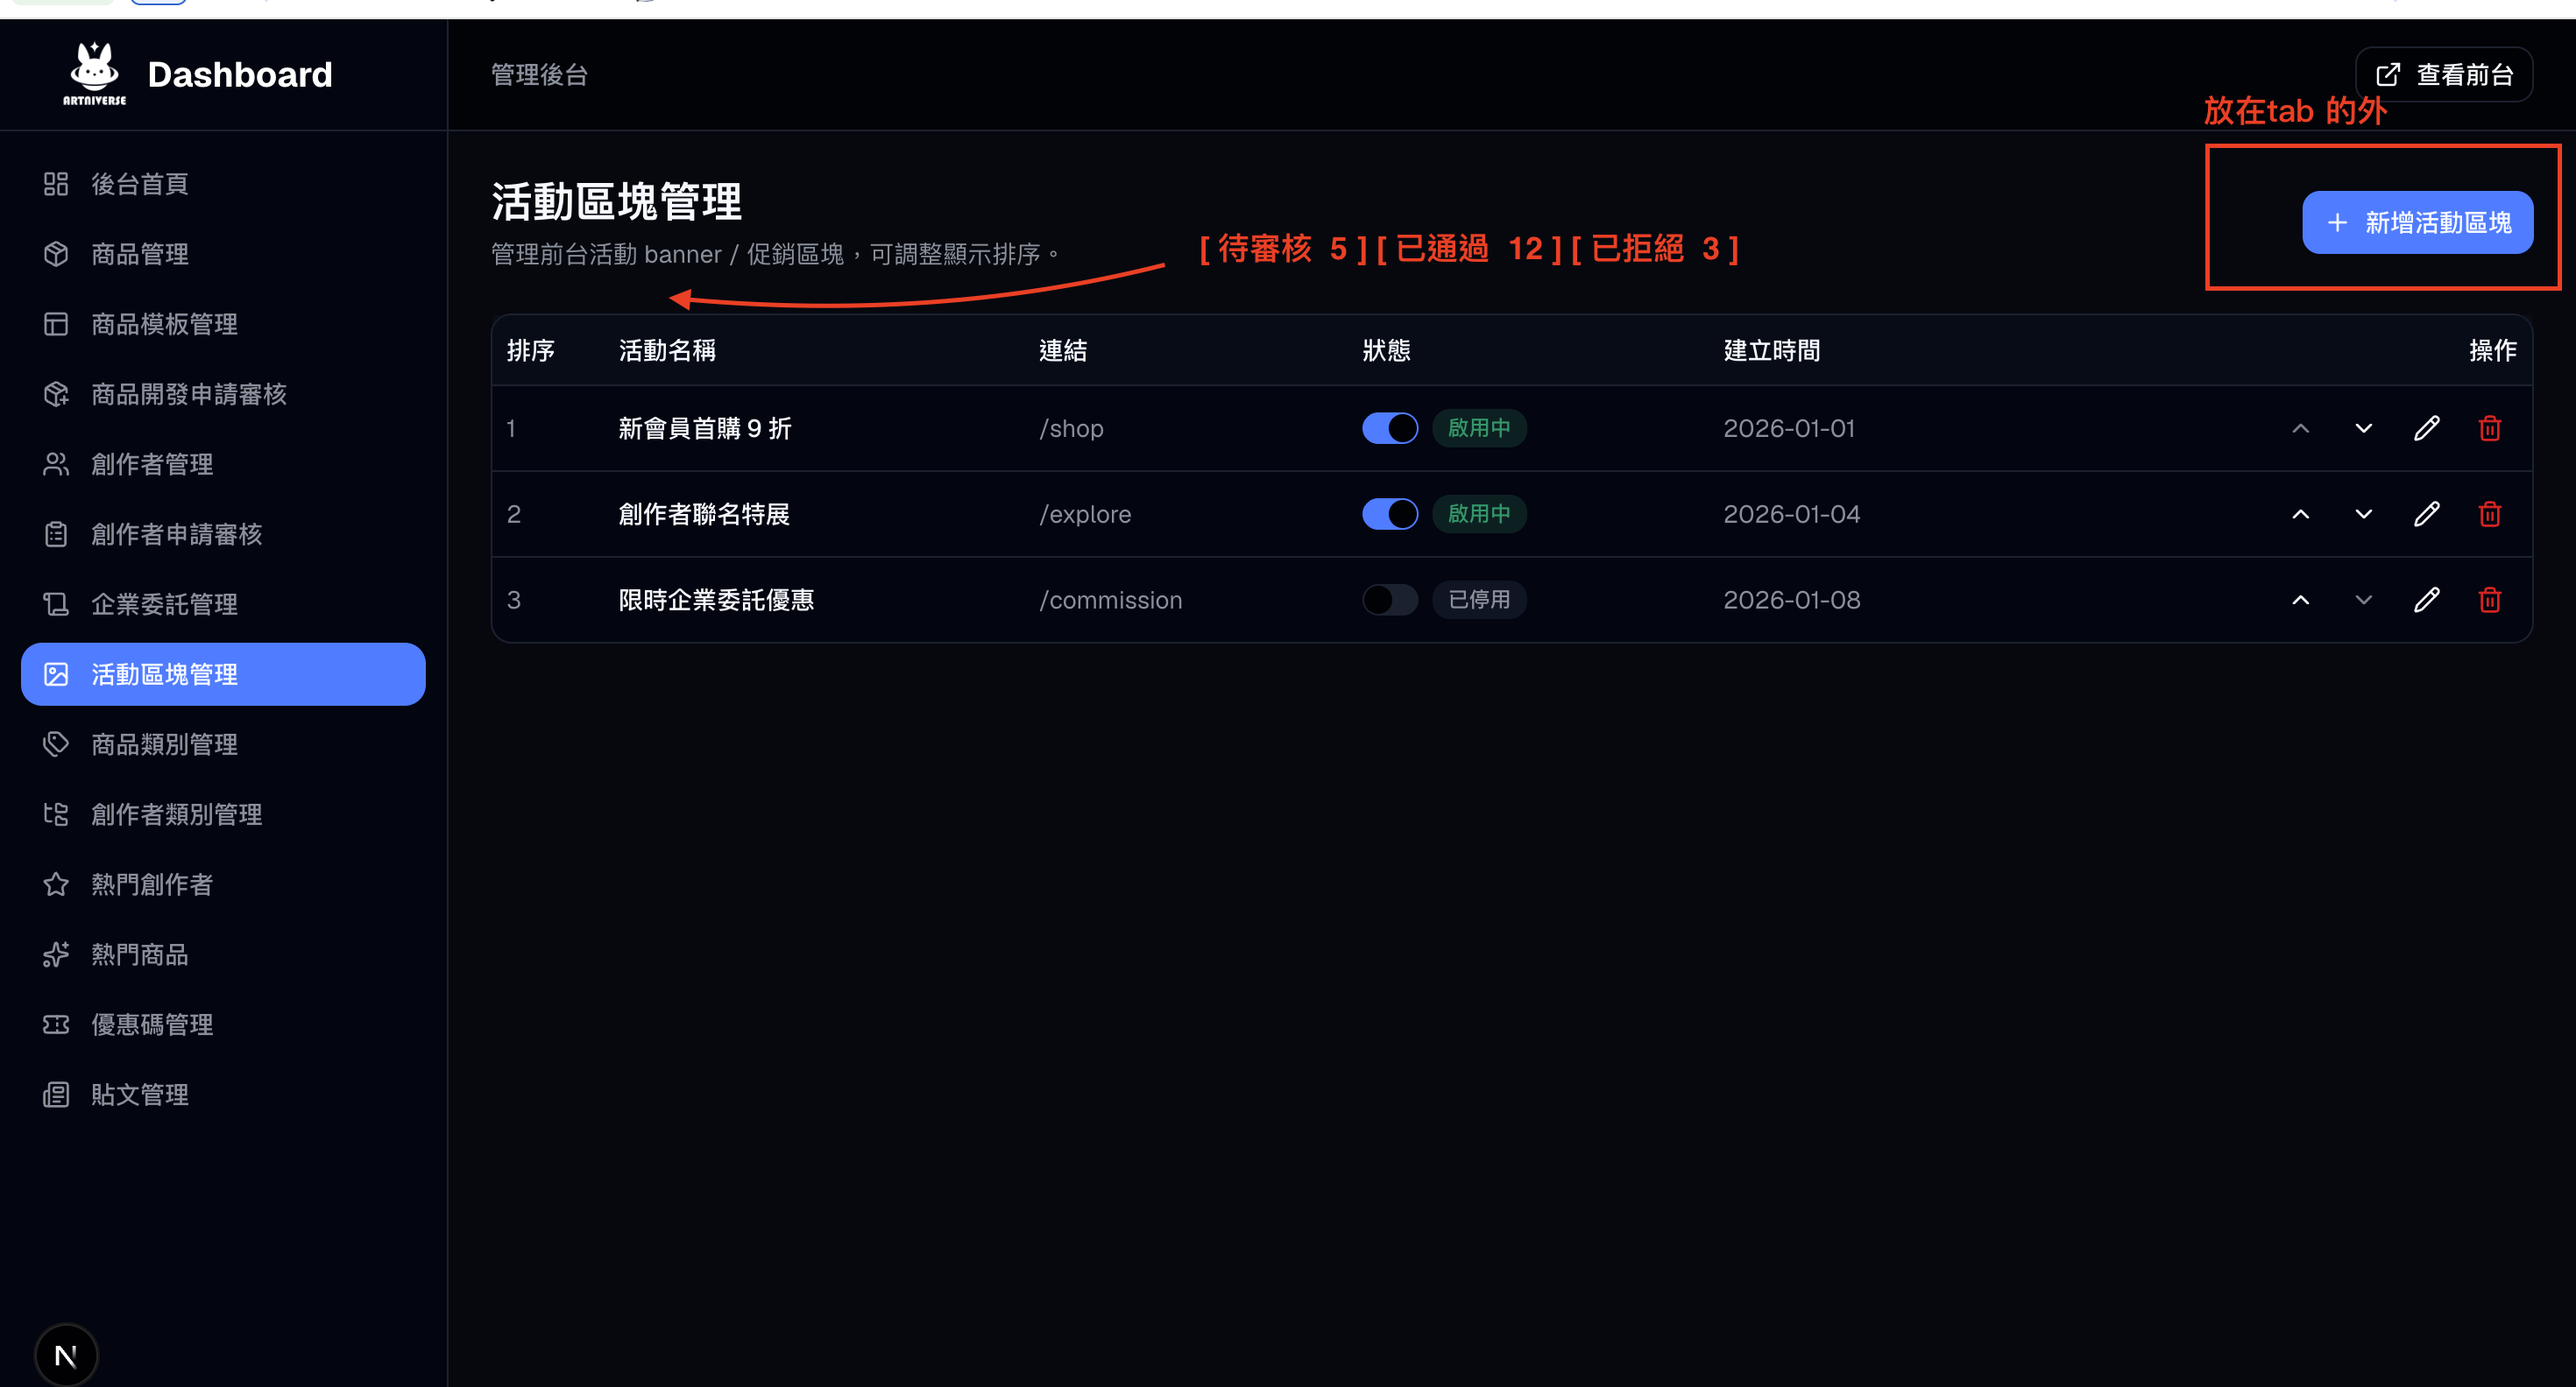
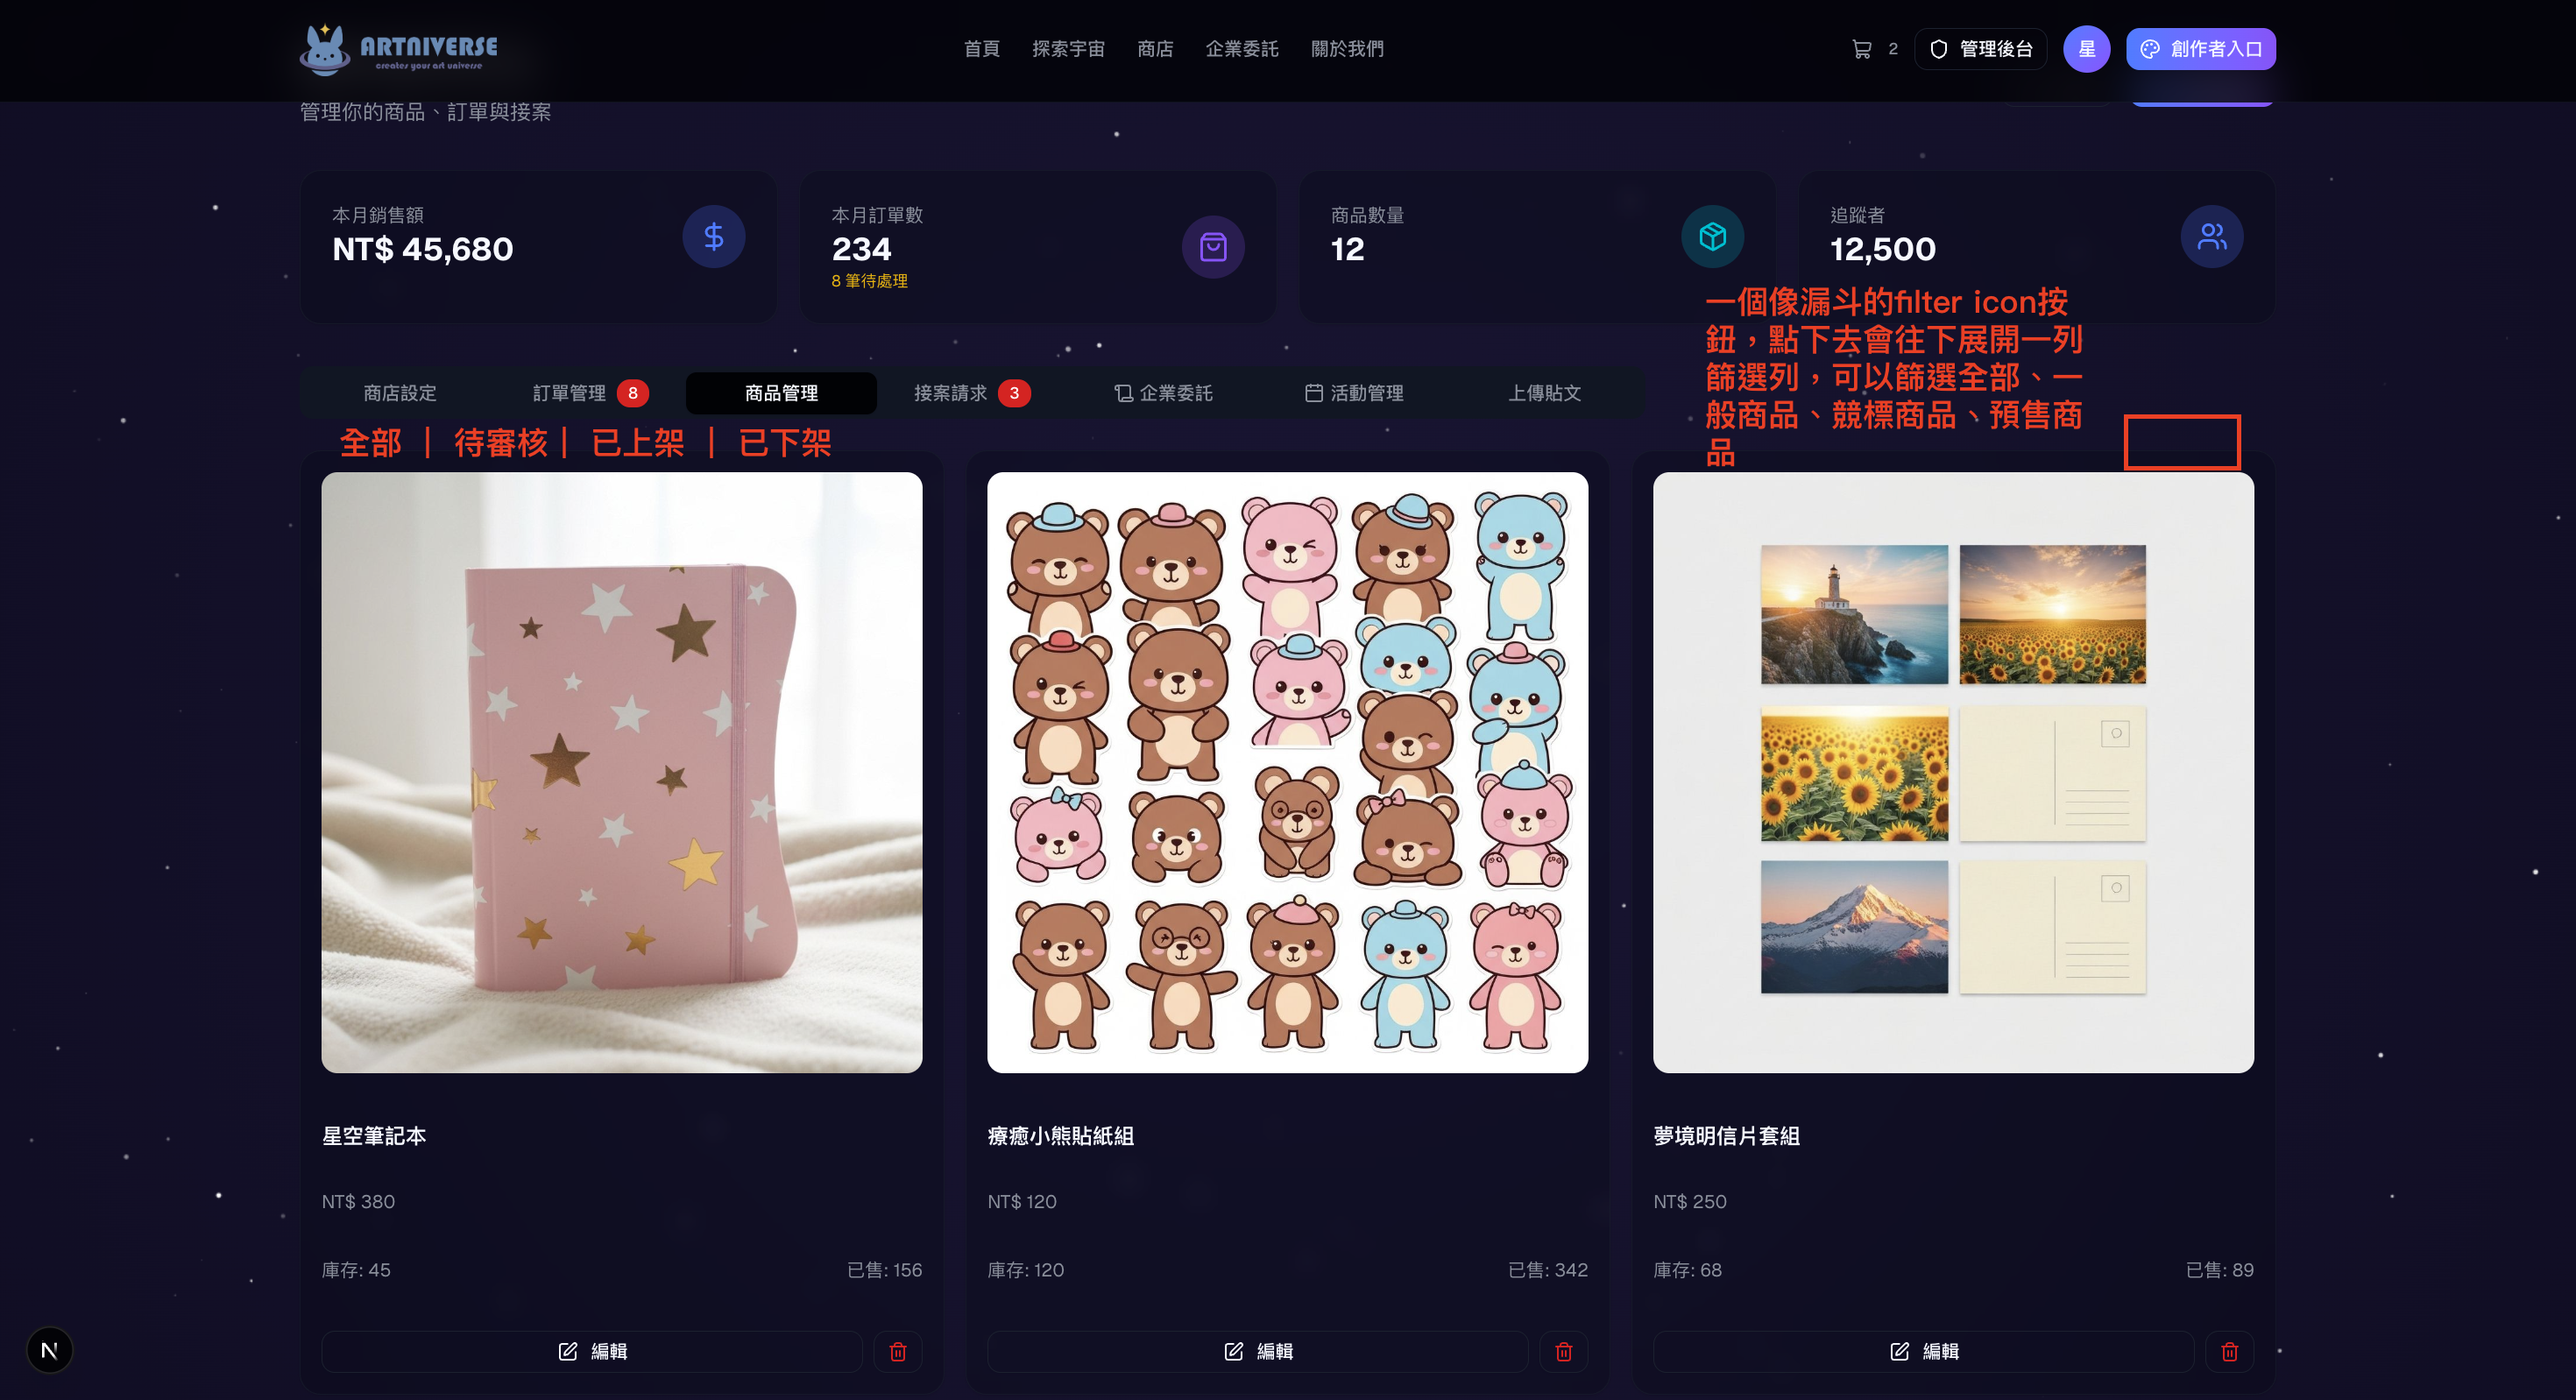
創作者管理商品頁面狀態篩選功能完成 /shop頁面商品收藏格式統一

diff --git a/frontend/app/creator-portal/page.tsx b/frontend/app/creator-portal/page.tsx
@@ -21,7 +21,15 @@ import {
   DialogTrigger,
   DialogFooter,
 } from "@/components/ui/dialog";
+import {
+  DropdownMenu,
+  DropdownMenuContent,
+  DropdownMenuRadioGroup,
+  DropdownMenuRadioItem,
+  DropdownMenuTrigger,
+} from "@/components/ui/dropdown-menu";
 import { useAuth } from "@/lib/auth-context";
+import { TheCard } from "@/components/common/TheCard";
 import { BasicDatePicker } from "@/components/ui/date-picker";
 import {
   // getEvents, // 等接後端 API 時再啟用
@@ -60,6 +68,7 @@ import {
   Calendar,
   MapPin,
   CalendarPlus,
+  ListFilter,
 } from "lucide-react";
 import Link from "next/link";
 
@@ -112,6 +121,7 @@ const products = [
     sales: 156,
     image: "/cute-notebook-with-stars.jpg",
     status: "active",
+    category: "筆記本",
   },
   {
     id: "2",
@@ -120,7 +130,8 @@ const products = [
     stock: 120,
     sales: 342,
     image: "/cute-bear-stickers.jpg",
-    status: "active",
+    status: "pending",
+    category: "貼紙",
   },
   {
     id: "3",
@@ -129,7 +140,8 @@ const products = [
     stock: 68,
     sales: 89,
     image: "/dreamy-postcards.jpg",
-    status: "active",
+    status: "inactive",
+    category: "明信片",
   },
 ];
 
@@ -346,6 +358,26 @@ export default function CreatorPortalPage() {
   );
   const [newBenefit, setNewBenefit] = useState("");
   const [quoteAmount, setQuoteAmount] = useState(0);
+
+  // Product status filter
+  const [productStatusFilter, setProductStatusFilter] = useState<
+    "all" | "active" | "pending" | "inactive"
+  >("all");
+
+  // Product category filter
+  const [productCategoryFilter, setProductCategoryFilter] = useState("全部");
+  const productCategories = [
+    "全部",
+    ...Array.from(new Set(products.map((p) => p.category))),
+  ];
+
+  const filteredProducts = products.filter((p) => {
+    const statusMatch =
+      productStatusFilter === "all" || p.status === productStatusFilter;
+    const categoryMatch =
+      productCategoryFilter === "全部" || p.category === productCategoryFilter;
+    return statusMatch && categoryMatch;
+  });
 
   // Commission request status filter ("all" | "pending" | "quoted" | "paid")
   const [commissionFilter, setCommissionFilter] = useState<
@@ -1297,52 +1329,110 @@ export default function CreatorPortalPage() {
 
           {/* Products Tab */}
           <TabsContent value="products" className="space-y-4">
+            <div className="flex items-center justify-between">
+              <h2 className="text-xl font-bold text-foreground">商品管理</h2>
+              <Link href="/creator-portal/products/new">
+                <Button size="sm" className="bg-gradient-to-r from-primary to-secondary">
+                  <Plus className="mr-1 h-4 w-4" />
+                  新增商品
+                </Button>
+              </Link>
+            </div>
+
+            {/* Status Sub-tabs + Category Filter */}
+            <div className="flex items-center justify-between">
+              <div className="flex gap-2">
+                {(
+                  [
+                    { value: "all", label: "全部" },
+                    { value: "pending", label: "待審核" },
+                    { value: "active", label: "已上架" },
+                    { value: "inactive", label: "已下架" },
+                  ] as const
+                ).map((tab) => (
+                  <button
+                    key={tab.value}
+                    onClick={() => setProductStatusFilter(tab.value)}
+                    className={`rounded-full px-4 py-1.5 text-sm font-medium transition-colors ${
+                      productStatusFilter === tab.value
+                        ? "bg-primary text-primary-foreground"
+                        : "bg-card/50 text-muted-foreground hover:bg-card hover:text-foreground"
+                    }`}
+                  >
+                    {tab.label}
+                  </button>
+                ))}
+              </div>
+
+              <DropdownMenu>
+                <DropdownMenuTrigger asChild>
+                  <Button
+                    variant="outline"
+                    size="sm"
+                    className={`gap-1.5 bg-transparent ${productCategoryFilter !== "全部" ? "border-primary text-primary" : ""}`}
+                  >
+                    <ListFilter className="h-4 w-4" />
+                  </Button>
+                </DropdownMenuTrigger>
+                <DropdownMenuContent align="end">
+                  <DropdownMenuRadioGroup
+                    value={productCategoryFilter}
+                    onValueChange={setProductCategoryFilter}
+                  >
+                    {productCategories.map((cat) => (
+                      <DropdownMenuRadioItem key={cat} value={cat}>
+                        {cat}
+                      </DropdownMenuRadioItem>
+                    ))}
+                  </DropdownMenuRadioGroup>
+                </DropdownMenuContent>
+              </DropdownMenu>
+            </div>
+
             <div className="grid gap-4 md:grid-cols-2 lg:grid-cols-3">
-              {products.map((product) => (
-                <Card
+              {filteredProducts.map((product) => (
+                <TheCard
                   key={product.id}
-                  className="border-border/50 bg-card/30 p-4 backdrop-blur-sm"
+                  className="group overflow-hidden pt-0"
                 >
-                  <div className="mb-3 aspect-square overflow-hidden rounded-lg">
+                  <div className="relative aspect-square overflow-hidden bg-muted/30">
                     <img
                       src={product.image || "/placeholder.svg"}
                       alt={product.name}
-                      className="h-full w-full object-cover"
+                      className="h-full w-full object-cover transition-transform duration-500 group-hover:scale-110"
                     />
                   </div>
-                  <h3 className="mb-1 font-bold text-foreground">
-                    {product.name}
-                  </h3>
-                  <p className="mb-2 text-sm text-muted-foreground">
-                    NT$ {product.price}
-                  </p>
-                  <div className="mb-3 flex items-center justify-between text-sm">
-                    <span className="text-muted-foreground">
-                      庫存: {product.stock}
-                    </span>
-                    <span className="text-muted-foreground">
-                      已售: {product.sales}
-                    </span>
+                  <div className="space-y-3 p-4">
+                    <div>
+                      <Badge variant="outline" className="mb-2 text-xs">
+                        {product.category}
+                      </Badge>
+                      <h3 className="text-lg font-bold text-foreground">
+                        {product.name}
+                      </h3>
+                    </div>
+                    <div className="flex items-center justify-between">
+                      <div className="text-2xl font-bold text-primary">
+                        NT$ {product.price}
+                      </div>
+                      <Button
+                        variant="outline"
+                        size="sm"
+                        className="bg-transparent"
+                      >
+                        <Edit className="mr-1 h-4 w-4" />
+                        編輯
+                      </Button>
+                    </div>
                   </div>
-                  <div className="flex gap-2">
-                    <Button
-                      variant="outline"
-                      size="sm"
-                      className="flex-1 bg-transparent"
-                    >
-                      <Edit className="mr-1 h-4 w-4" />
-                      編輯
-                    </Button>
-                    <Button
-                      variant="outline"
-                      size="sm"
-                      className="bg-transparent text-destructive hover:text-destructive"
-                    >
-                      <Trash2 className="h-4 w-4" />
-                    </Button>
-                  </div>
-                </Card>
+                </TheCard>
               ))}
+              {filteredProducts.length === 0 && (
+                <div className="col-span-3 flex flex-col items-center justify-center py-16 text-muted-foreground">
+                  <Package className="mb-3 h-10 w-10 opacity-30" />
+                  <p className="text-sm">沒有符合條件的商品</p>
+                </div>
+              )}
             </div>
           </TabsContent>
 

diff --git a/frontend/components/product-card.tsx b/frontend/components/product-card.tsx
@@ -68,17 +68,15 @@ export function ProductCard({
             alt={name}
             className="h-full w-full object-cover transition-transform duration-500 group-hover:scale-110"
           />
-          <Button
-            variant="ghost"
-            size="icon"
-            className="absolute right-2 top-2 bg-background/50 backdrop-blur-sm hover:bg-background/80"
+          <button
+            className="absolute bottom-2 right-2 rounded-full bg-background/60 p-1.5 backdrop-blur-sm transition-colors hover:bg-background/90"
             onClick={handleToggleFavorite}
             title={isLiked ? "取消收藏" : "加入收藏"}
           >
             <Heart
               className={`h-4 w-4 ${isLiked ? "fill-red-500 text-red-500" : "text-foreground"}`}
             />
-          </Button>
+          </button>
           {stock < 10 && (
             <Badge variant="destructive" className="absolute left-2 top-2">
               僅剩 {stock} 件
